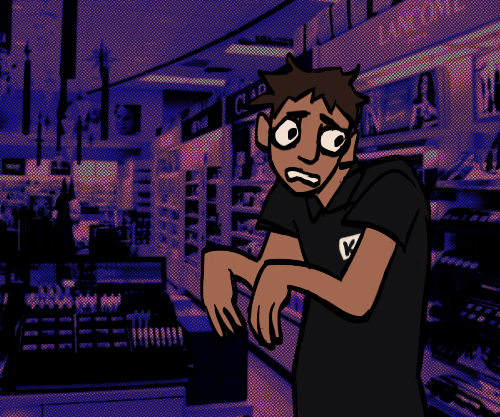
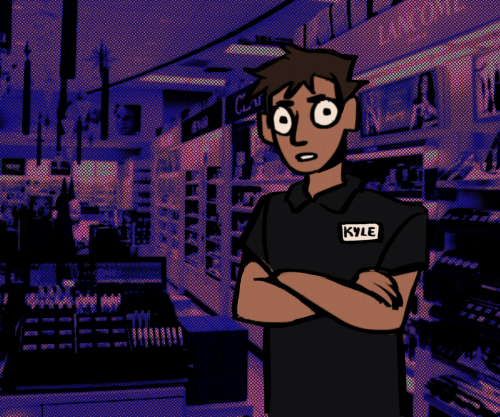
Added screenshots for README and fixed images in the arrays
Thank you Sabine!

Changed region(s): [[0.39, 0.4676, 0.87, 1.0], [0.48, 0.0935, 0.75, 0.4988], [0.72, 0.3741, 0.87, 0.53]]

diff --git a/topics/prototyping/kyle/js/script.js b/topics/prototyping/kyle/js/script.js
@@ -2,7 +2,7 @@
  * Kyle
  * Charlotte Walsh
  *
- * Kyle dialogue and images.
+ * Small dialogue experiment using arrays for images and text. The character is a spoof of a character in Look Outside (a very cool Montreal based horror game that was made by a montrealer originally as a game jam piece!).
  */
 
 
@@ -10,9 +10,12 @@
 const dialogue = [
     "Oh my god you're normal!",
     "Oh sorry, I'm Kyle.",
-    "I uh... work here at Couche Tard.",
-    "I think there's something weird outside.",
-    "xxx"
+    "I uh . . . work here at Couche Tard.",
+    "There's something weird going on outside . . .",
+    "I can't get ahold of my manager.",
+    "She told me she was on her way here yesterday but never showed up.",
+    "I called the police but they told me to get away from the windows.",
+    "Then I saw that the mice in our breakroom were . . . weird.",
 ];
 
 // Kyle's picture array
@@ -31,56 +34,31 @@ let box = {
     height: 80,
     // Space around text and size of text
     padding: 20,
-    fontSize: 18
+    fontSize: 18,
+    // Rounds the corners of the text box
+    round: 15,
 };
 
-// Kyle??
-let kyle = {
-    x: 0,
-    y: 0,
-    width: 500,
-    height: 417,
-}
+/**
+ * Creates canvas and loads the images in the array
+ */
+async function setup() {
 
-// Load the image files
-function preload() {
-
-    // NOT WORKING
-    // kylepic0 = loadImage("./assets/images/kyle-concerned.png")
-    // kylepic1 = loadImage("./assets/images/kyle-content.png")
-    // kylepic2 = loadImage("./assets/images/kyle-spooked.png")
+    createCanvas(500, 417);
 
     // Loads the beautiful pictures of Kyle
-    for (let i = 0; i < 9; i++) {
+    for (let i = 0; i < 7; i++) {
         // load a image file
         // use the i from our loop to refer to each file name
-        let kylepic = loadImage(i + "./assets/images/ " + i + " .png");
+        let kylepic = await loadImage("assets/images/" + i + ".png");
 
         // add image file to pics array
         kylepics.push(kylepic);
     }
 
+    // Loads the kyle pics
+    console.log(kylepics);
 }
-
-// BROKE THE CODE
-
-// async function setup() {
-
-//     createCanvas(500, 417);
-
-//     // Loads the beautiful pictures of Kyle
-//     for (let i = 0; i < 9; i++) {
-//         // load a image file
-//         // use the i from our loop to refer to each file name
-//         let kylepic = loadImage(i + "./assets/images/ " + i + " .png");
-
-//         // add image file to pics array
-//         kylepics.push(kylepic);
-//     }
-
-//     // Loads the kyle pics
-//     console.log(kylepics);
-// }
 
 // NOT WORKING EITHER
 // Creates Kyle
@@ -98,28 +76,22 @@ function createKyle() {
 
 }
 
-/**
- * Creates the canvas
- */
-function setup() {
-    createCanvas(500, 417);
+// /**
+//  * Creates the canvas
+//  */
+// function setup() {
+//     createCanvas(500, 417);
 
-    // Loads the kyle pics
-    console.log(kylepics);
+//     // Loads the kyle pics
+//     console.log(kylepics);
 
-    createKyle(kylepics);
+//     createKyle(kylepics);
 
-}
+// }
 
 // Draws Kyle and his dialogue
 function draw() {
     background(220);
-
-    // Displays Kyle's yapping
-    showDialogue();
-
-    // NOT WORKING
-    // drawKyle();
 
     // Displays kyle????????
     if (kylepics.length > 0) {
@@ -127,6 +99,9 @@ function draw() {
 
         image(kylepics[kyleIndex], 0, 0);
     }
+
+    // Displays Kyle's yapping
+    showDialogue();
 }
 
 /**
@@ -152,14 +127,15 @@ function showDialogue() {
     fill(0);
     stroke(255);
     strokeWeight(3);
-    rect(box.x, box.y, box.width, box.height);
+    rect(box.x, box.y, box.width, box.height, box.round);
     pop();
 
     // Displays the dialogue
     push();
     fill(255);
     textSize(18);
-    text(dialogue[dialogueIndex], box.x + box.padding, box.y + box.padding, box.width - 2 * box.padding, box.height - 2 * box.padding);
+    // Organizes the text within the text box 
+    text(dialogue[dialogueIndex], box.x + box.padding, box.y + box.padding, box.width - 2 * box.padding, box.height - 2);
     pop();
 }
 
@@ -179,5 +155,7 @@ function mousePressed() {
     }
 
 }
+
+
 
 

diff --git a/topics/prototyping/kyle/README.md b/topics/prototyping/kyle/README.md
@@ -6,12 +6,13 @@ Charlotte Walsh
 
 ## Description
 
-Fanart for Look Outside.
+Small dialogue experiment using arrays for images and text. The character is a spoof of a character in Look Outside (a very cool Montreal based horror game that was made by a montrealer originally as a game jam piece!).
 
 ## Attribution
 
 > - This project uses [p5.js](https://p5js.org).
-> - This project is inspired by code from Pippin's friends and countrymen prototype.
+> - This project uses code inspired by Pippin's Friends, Romans, Countrymen prototype.
+> - This project is inspired by Look Outside by Francis Coulombe.
 
 
 ## License
